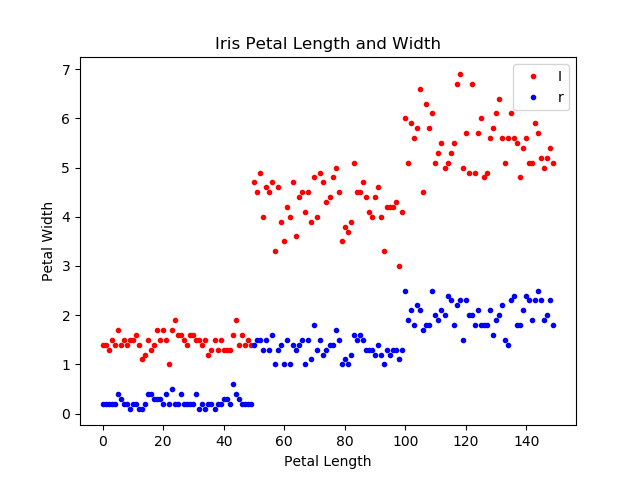
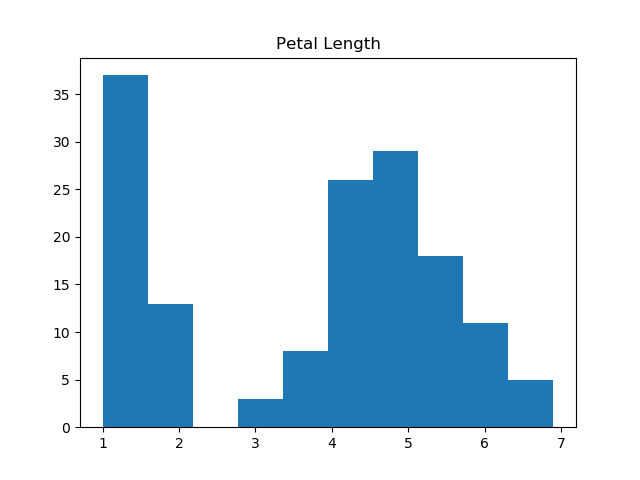
work on plots and Hist

diff --git a/scatterplots/analysis.py b/scatterplots/analysis.py
@@ -1,54 +1,43 @@
 # IPython log file
 
-import pandas as pd
-get_ipython().run_line_magic('logstart', '')
+
 import pandas as pd
 import matplotlib.pyplot as plt
-import numpy as np
-pd.read_csv("https://raw.githubusercontent.com/pandas-dev/pandas/master/pandas/tests/data/iris.csv")
+
 df = pd.read_csv("https://raw.githubusercontent.com/pandas-dev/pandas/master/pandas/tests/data/iris.csv")
 
-df
-df["SepalLength"]
-df["SepalWidth"]
-df["PetalLength"]
-df["PetalWidth"]
-df["Name"]
-plt.plot(df["PetalLength"], df["PetalWidth"], "b.")
-plt.savefig("hist.png")
-plt.title("PetalLength")
-plt.clf
+plt.plot(df["PetalLength"], "r.", df["PetalWidth"], "b.")
+plt.title("Petal Length v's Petal Width")
+plt.xlabel("Length")
+plt.ylabel("Width")
+plt.savefig("scatter.png")
+plt.clf ()
 
-
-plt.plot(df["PetalLength"], "r.", df["PetalWidth"], "b.")
-
-plt.legend("Iris Petal Length and Width")
-plt.title("Iris Petal Length and Width")
-plt.xlabel("Petal Length")
-plt.ylabel("Petal Width")
-plt.savefig("hist.png")
-plt.clf
-
-plt.legend("Iris Sepal Length and Width")
-plt.title("Iris Sepal Length and Width")
-plt.xlabel("Sepal Length")
-plt.ylabel("Sepal Width")
-plt.savefig("hist.png")
-plt.clf
-
-plt.hist(df["SeptalLength"])
-plt.savefig("hist.png)")
-plt.clf 
-
-plt.hist(df["SeptalWidth"])
-plt.savefig("hist.png)")
-plt.clf 
+plt.plot(df["SepalLength"], "r.", df["SepalWidth"], "b.")
+plt.title("Sepal Length v's Sepal Width")
+plt.xlabel("Length")
+plt.ylabel("Width")
+plt.savefig("scatter1.png")
+plt.clf ()
 
 plt.hist(df["PetalLength"])
-plt.savefig("hist.png)")
-plt.clf 
+plt.title("Petal Length")
+plt.savefig("hist.png")
+plt.clf ()
 
 plt.hist(df["PetalWidth"])
-plt.savefig("hist.png)")
-plt.clf 
+plt.title("Petal Width")
+plt.savefig("hist2.png")
+plt.clf ()
+
+plt.hist(df["SepalLength"])
+plt.title("Sepal Length")
+plt.savefig("hist3.png")
+plt.clf ()
+
+plt.hist(df["SepalWidth"])
+plt.title("Sepal Width")
+plt.savefig("hist4.png")
+plt.clf ()
+
 
